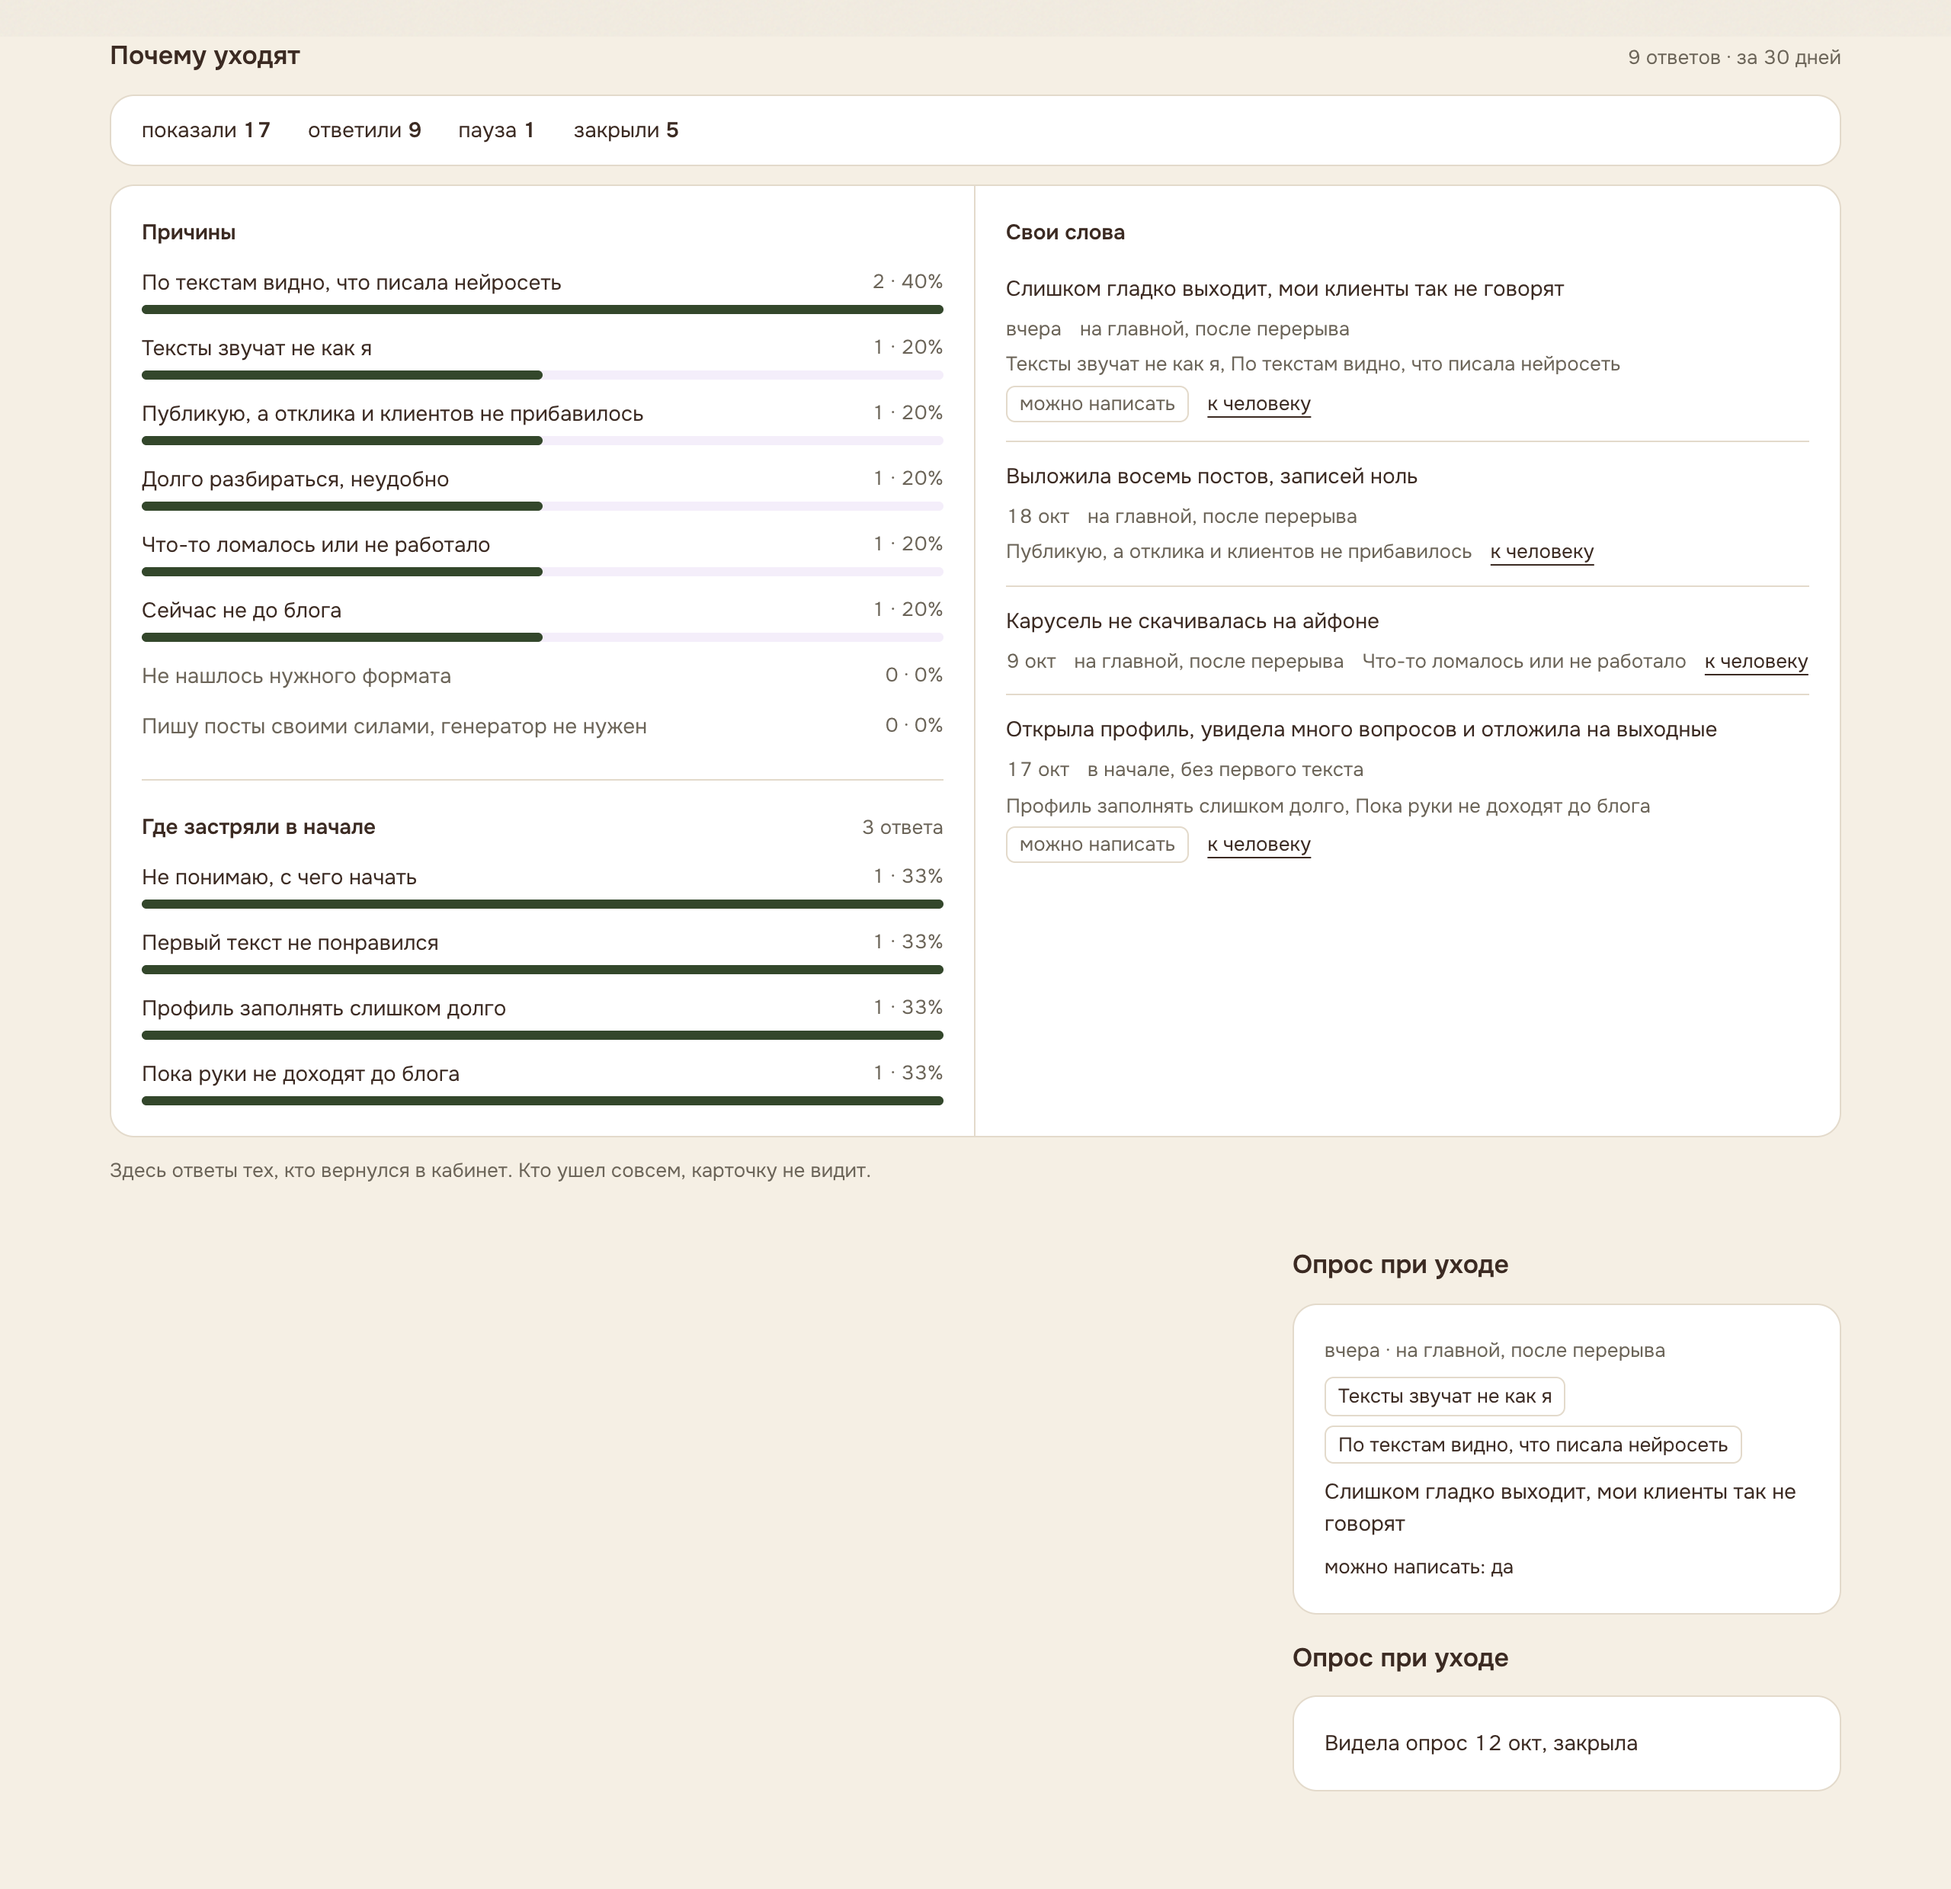
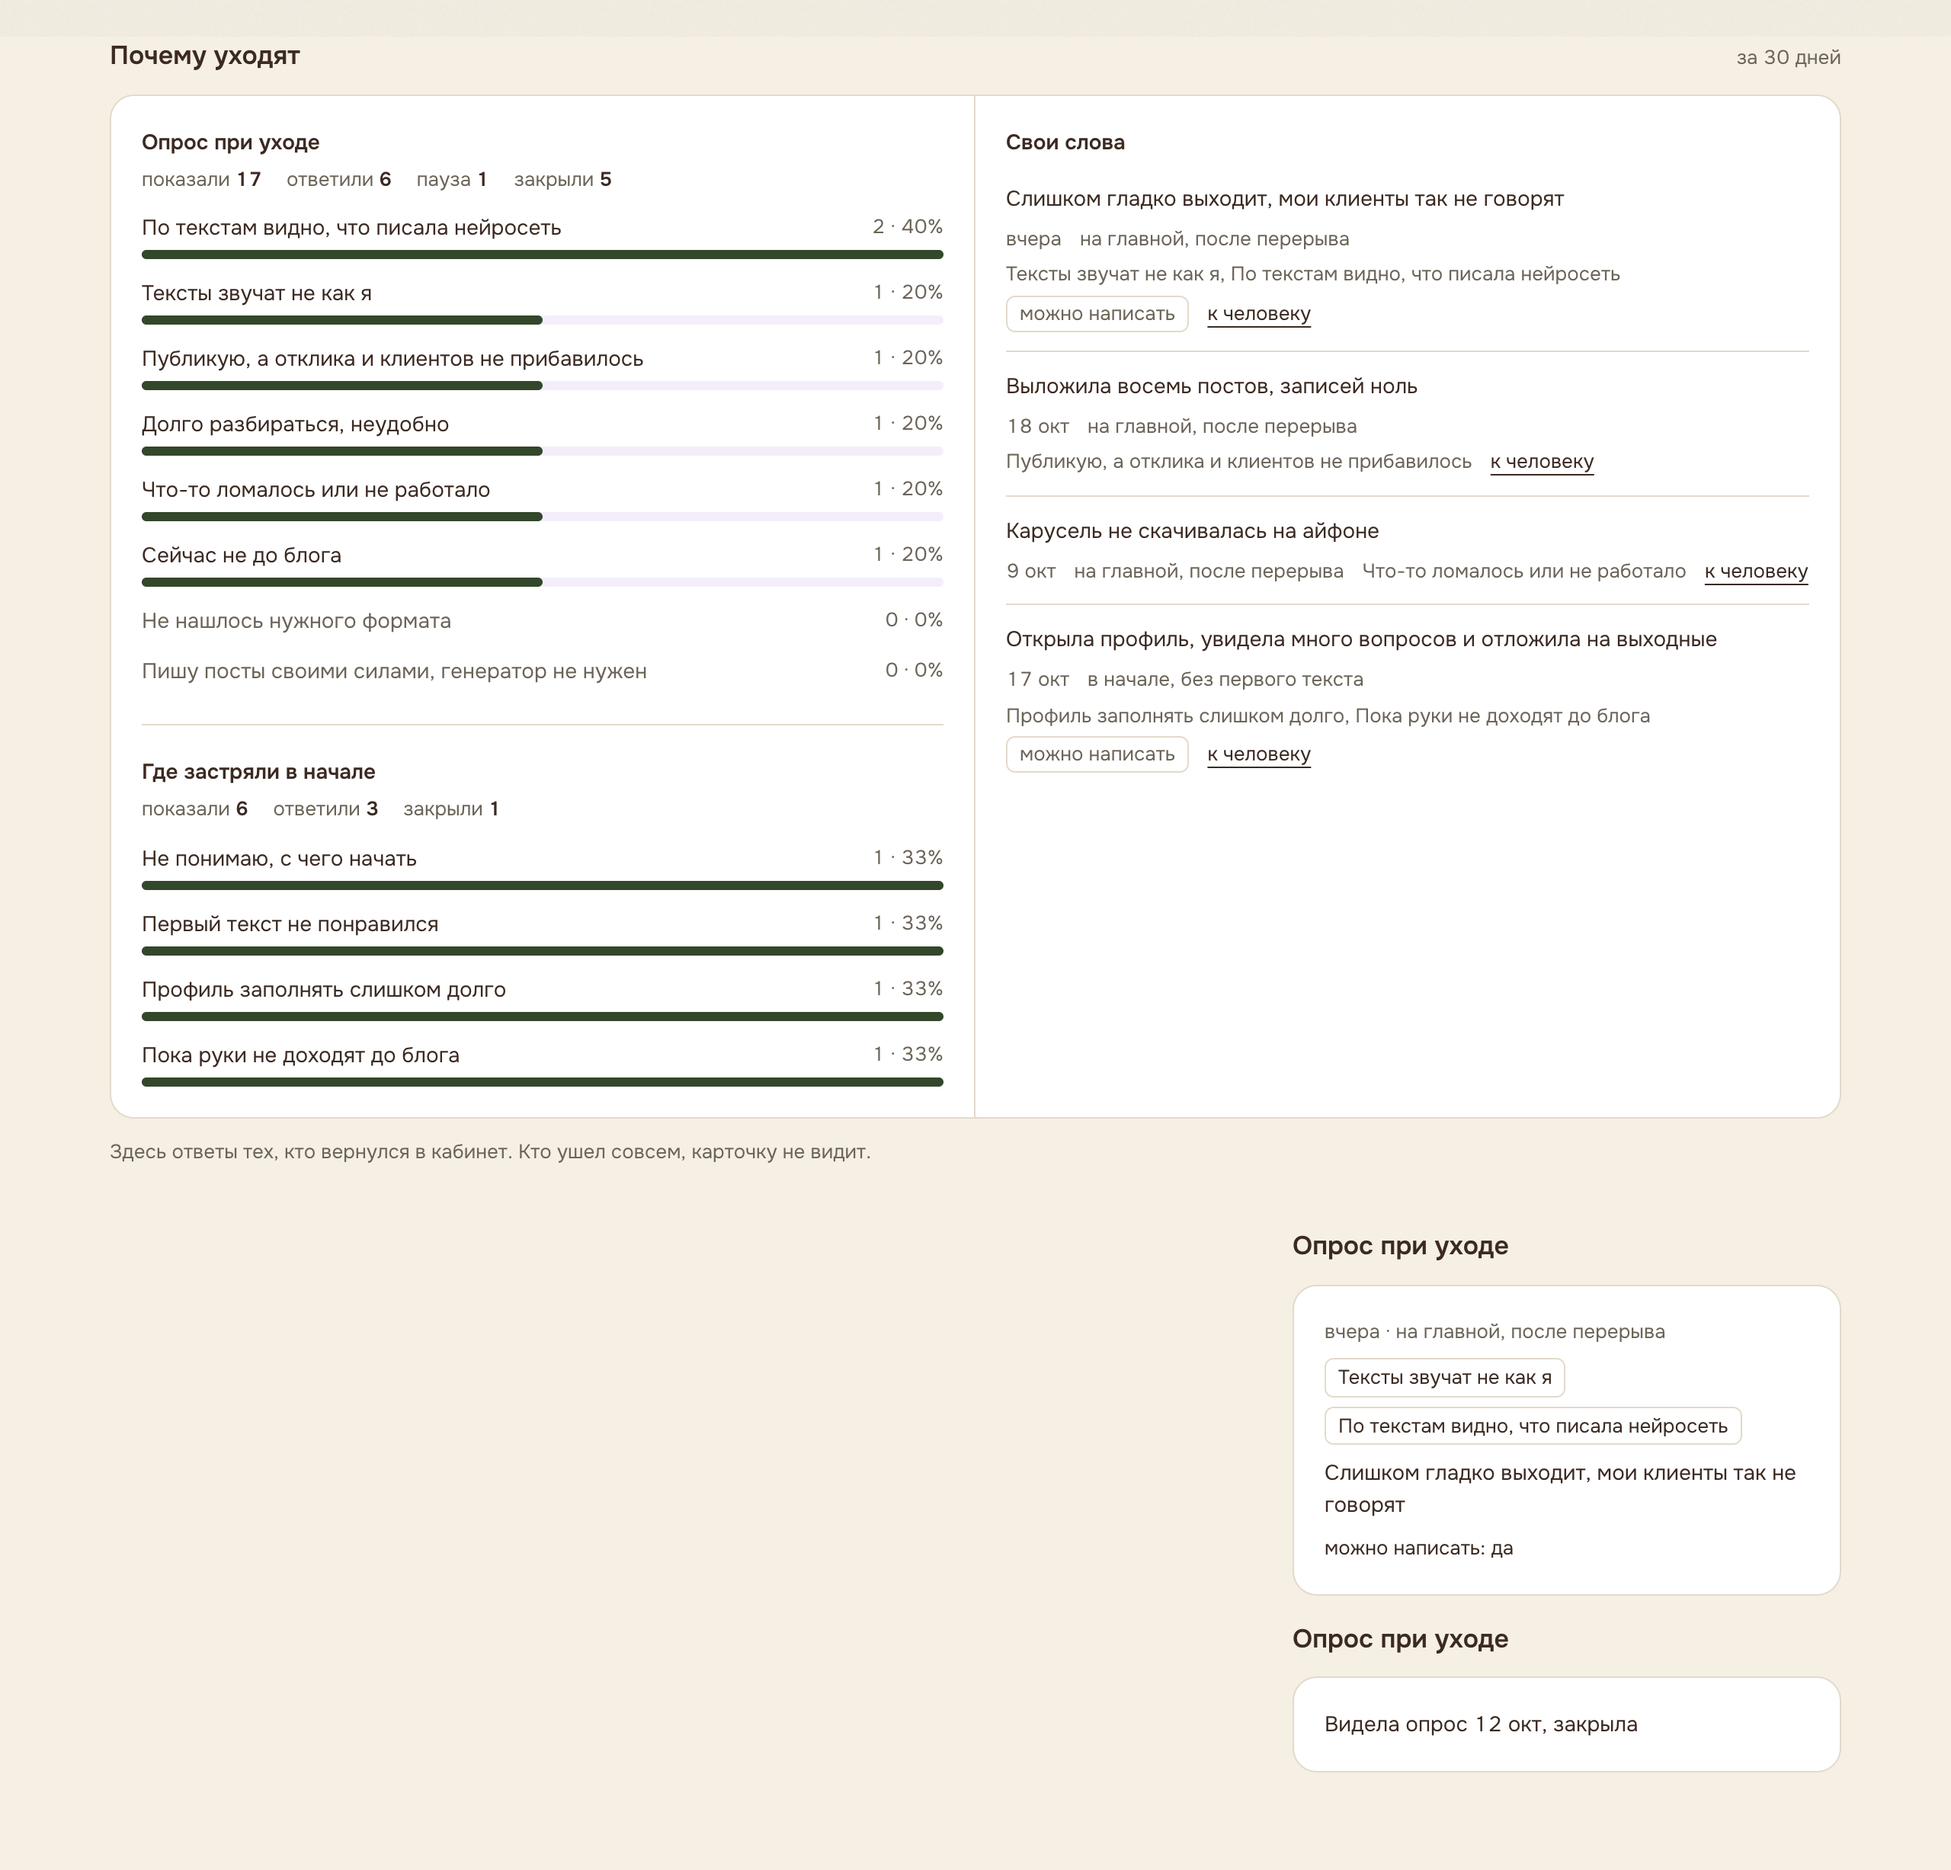
Аналитика 2: снимки кабинета с раздельным счетом опросов, SNIMKI.html
(cherry picked from commit 39eec46ab2f6d2afe8c6062e406295ead01c137a)

diff --git a/scripts/analitika2-screens.ts b/scripts/analitika2-screens.ts
@@ -49,6 +49,7 @@ const SHOTS: [string, string][] = [
 <h1>Аналитика 2</h1>
 <div class="box"><h2>Что сделано</h2><ul>
 <li>«Другое» убрано из причин, поле своих слов видно всегда. Новая карточка «Где все застопорилось?» один раз тем, кто зарегистрировался 3+ дня назад и ни разу не взял текст; вместе с опросом при уходе не показывается; в кабинете и сводке отдельной строкой.</li>
+<li>В «Почему уходят» у опроса при уходе и у «Где застряли в начале» свои числа: показали, ответили, закрыли. Общей суммы нет. В утренней сводке тоже отдельные строки.</li>
 <li>Опрос при уходе: карточка сверху главной для тех, кто остыл или ушел и вернулся (статус по прошлому визиту), один раз, потом 60 дней тишины, не больше 3 раз. Первая кнопка «Все в порядке, была пауза». Свои слова только в базе, в события идут коды.</li>
 <li>Кабинет: «Почему уходят» на Сводке, ответы в карточке человека, новая вкладка «Тексты»: что люди делают с текстами и шаблонность по неделям рядом с нормами живых, сиреневым где стало хуже.</li>
 <li>Шаблонность считает скрипт раз в неделю, в базу только числа. Частые цепочки только в локальный файл.</li>

diff --git a/_знания/analitika-2/SNIMKI.html b/_знания/analitika-2/SNIMKI.html
@@ -3,6 +3,7 @@
 <h1>Аналитика 2</h1>
 <div class="box"><h2>Что сделано</h2><ul>
 <li>«Другое» убрано из причин, поле своих слов видно всегда. Новая карточка «Где все застопорилось?» один раз тем, кто зарегистрировался 3+ дня назад и ни разу не взял текст; вместе с опросом при уходе не показывается; в кабинете и сводке отдельной строкой.</li>
+<li>В «Почему уходят» у опроса при уходе и у «Где застряли в начале» свои числа: показали, ответили, закрыли. Общей суммы нет. В утренней сводке тоже отдельные строки.</li>
 <li>Опрос при уходе: карточка сверху главной для тех, кто остыл или ушел и вернулся (статус по прошлому визиту), один раз, потом 60 дней тишины, не больше 3 раз. Первая кнопка «Все в порядке, была пауза». Свои слова только в базе, в события идут коды.</li>
 <li>Кабинет: «Почему уходят» на Сводке, ответы в карточке человека, новая вкладка «Тексты»: что люди делают с текстами и шаблонность по неделям рядом с нормами живых, сиреневым где стало хуже.</li>
 <li>Шаблонность считает скрипт раз в неделю, в базу только числа. Частые цепочки только в локальный файл.</li>
